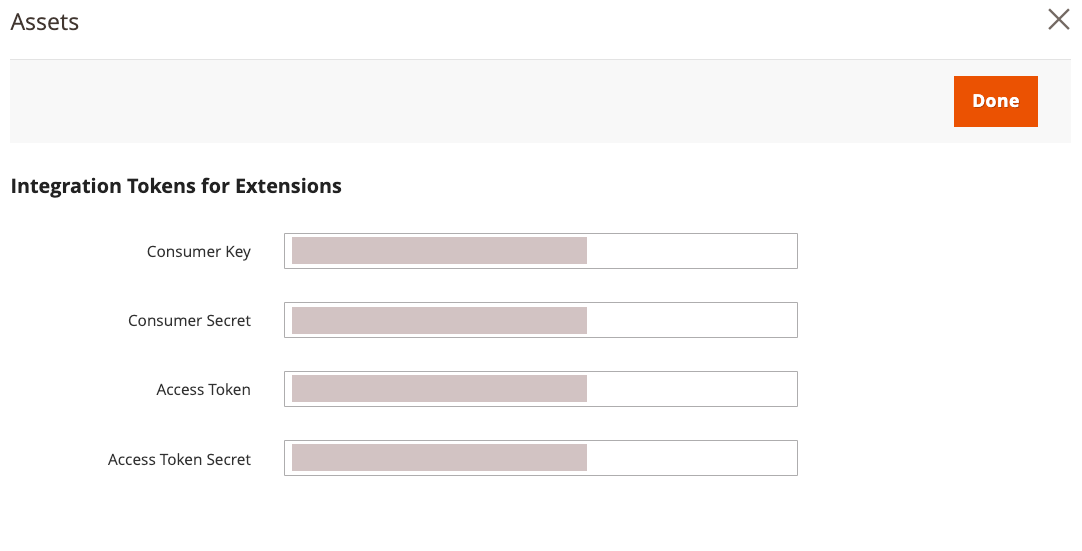
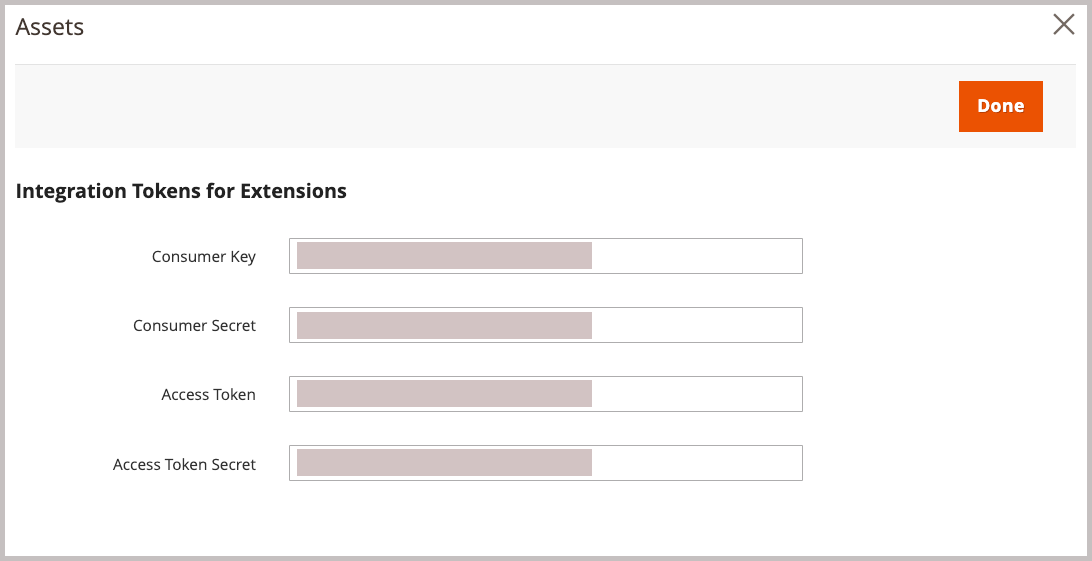
- Editorial updates - Fix image borders

diff --git a/help/content-design/aem-assets-configure-commerce.md b/help/content-design/aem-assets-configure-commerce.md
@@ -1,6 +1,6 @@
 ---
 title: Install and Configure the Experience Manager Assets Integration
-description: Learn how to install and configure the [!DNL AEM Assets Integration for Adobe Commerce]
+description: Learn how to install and configure the [!DNL AEM Assets Integration for Adobe Commerce] on an Adobe Commerce instance.
 feature: CMS, Media
 exl-id: 2f8b3165-354d-4b7b-a46e-1ff46af553aa
 ---
@@ -178,13 +178,9 @@ Enable the eventing framework from the Commerce Admin.
    >
    >Verify that [cron jobs are enabled](https://developer.adobe.com/commerce/extensibility/events/configure-commerce/#check-cron-and-message-queue-configuration). Cron jobs are required for Commerce to manage communication and workflows between AEM Assets and Commerce.
 
->[!TIP]
->
->For additional information about the Adobe I/O Events configuration fields, see the _[Adobe I/O Events Guide](https://developer.adobe.com/commerce/extensibility/events/configure-commerce/#complete-the-commerce-configuration).
-
 ## Get authentication credentials for API access
 
-The AEM Assets Integration for Commerce requires OAuth authentication credentials to allow API access to the Commerce instance. You need these credentials to register the Commerce project with the Assets Rule Engine service during tenant onboarding, and to submit API requests to manage assets between Adobe Commerce and AEM Assets.
+The AEM Assets Integration for Commerce requires OAuth authentication credentials to allow API access to the Commerce instance. These credentials are required to authenticate API requests when managing assets using the AEM Assets integration.
 
 You generate the credentials by adding the integration to the Commerce instance and activating it.
 
@@ -205,7 +201,7 @@ You generate the credentials by adding the integration to the Commerce instance 
 1. Configure API resources.
 
    1. From the left panel, click **[!UICONTROL API]**.
-E
+
    1. Select the external media resource **[!UICONTROL Catalog > Inventory > Products > External Media]**.
 
      ![Admin Integration config for API resources](assets/aem-commerce-integration-api-resources.png){width="600" zoomable="yes"}
@@ -220,7 +216,7 @@ On the Integrations page, generate the OAuth authentication credentials by click
 
    ![Activate Commerce configuration for Assets integration](assets/aem-activate-commerce-integration.png){width="600" zoomable="yes"}
 
-1. Save the credentials for the consumer key and access token for later use.
+1. If you plan to use the API, save the credentials for the consumer key and access token to configure authentication in your API client.
 
   ![OAuth credentials to authenticate API requests](./assets/aem-commerce-integration-credentials.png){width="600" zoomable="yes"}
 
@@ -229,3 +225,4 @@ On the Integrations page, generate the OAuth authentication credentials by click
 >[!NOTE]
 >
 >You can also generate authentication credentials using the Adobe Commerce APIs. For details about this process and more information about OAuth-based authentication for Adobe Commerce, see [OAuth-based authentication](https://developer.adobe.com/commerce/webapi/get-started/authentication/gs-authentication-oauth/) in the Adobe Developer documentation.
+
